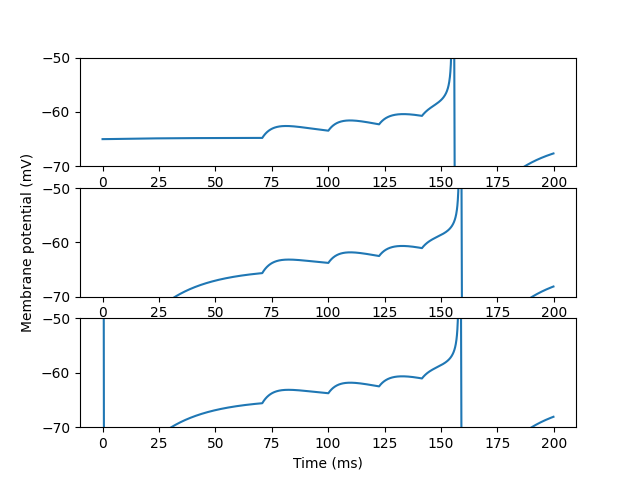
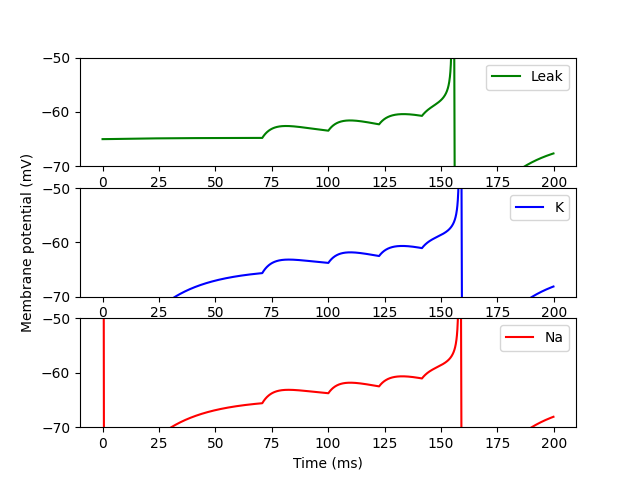
added legend for plot

diff --git a/week1_neuron_models.py b/week1_neuron_models.py
@@ -88,7 +88,7 @@ net1.run(duration)
 #store(net1)
 #stop()
 
-axis[0].plot(monitor_El.t/ms, monitor_El.v[0]/mV)
+axis[0].plot(monitor_El.t/ms, monitor_El.v[0]/mV, "-g", label='Leak')
 
 del(monitor_El)
 del(group)
@@ -109,7 +109,7 @@ net2.add(group)
 net2.run(duration)
 
 
-axis[1].plot(monitor_Ek.t/ms, monitor_Ek.v[0]/mV)
+axis[1].plot(monitor_Ek.t/ms, monitor_Ek.v[0]/mV, "-b", label='K')
 
 del(monitor_Ek)
 del(group)
@@ -130,70 +130,33 @@ net3.add(group)
 net3.run(duration)
 
 
-axis[2].plot(monitor_ENa.t/ms, monitor_ENa.v[0]/mV)
+axis[2].plot(monitor_ENa.t/ms, monitor_ENa.v[0]/mV, "-r", label='Na')
 
 del(monitor_ENa)
 del(group)
-
-
-
-
 
 axis[0].set_ylim([-70,-50])
 axis[1].set_ylim([-70,-50])
 axis[2].set_ylim([-70,-50])
 
-#axis[0].set_ylabel('Membrane potential (mV)')
+
 axis[1].set_ylabel('Membrane potential (mV)')
-#axis[2].set_ylabel('Membrane potential (mV)')
+
 
 axis[0].set_xlabel('Time (ms)')
 axis[1].set_xlabel('Time (ms)')
 axis[2].set_xlabel('Time (ms)')
 
 
+axis[0].legend(loc='upper right')
+axis[1].legend(loc='upper right')
+axis[2].legend(loc='upper right')
 
-
+#axis[1].text(0.95, 0.95, 'K')
+#axis[2].text(0.95, 0.95,'Na')
+print(gi)
+plt.savefig("Hodgkin-Huxley_channels.png")
 plt.show()
-
-#run(duration)
-#axis[0].plot(monitor_El.t/ms, monitor_El.v[0]/mV)
-#axis[0].ylim(min(monitor_El.v[0]/mV), max(monitor_El.v[0]/mV))
-#axis[0].ylabel('Membrane potential (mV)')
-#axis[0].xlabel('Time (ms)')
-#tight_layout()
-#print(collect())
-
-
-#Potassium channel
-#group.v = EK
-# Little trick to get a sequence of input spikes that get faster and faster
-#inp_sp2 = NeuronGroup(1, 'dv/dt=int(t<150*ms)*t/(50*ms)**2:1', threshold ='v>1', reset='v=0', method='euler')
-#S2 = Synapses(inp_sp2, group, on_pre='ge += we')
-#S2.connect(p=1)
-#monitor_Ek = StateMonitor(group, 'v', record=True)
-#run(duration)
-#axis[1].plot(monitor_Ek.t/ms, monitor_Ek.v[0]/mV)
-#axis[0].ylim(min(monitor_El.v[0]/mV), max(monitor_El.v[0]/mV))
-#axis[0].ylabel('Membrane potential (mV)')
-#axis[0].xlabel('Time (ms)')
-#tight_layout()
-
-
-#Sodium channel
-#group.v = ENa
-# Little trick to get a sequence of input spikes that get faster and faster
-#inp_sp3 = NeuronGroup(1, 'dv/dt=int(t<150*ms)*t/(50*ms)**2:1', threshold ='v>1', reset='v=0', method='euler')
-#S3 = Synapses(inp_sp3, group, on_pre='ge += we')
-#S3.connect(p=1)
-#monitor_ENa = StateMonitor(group, 'v', record=True)
-#run(duration)
-#axis[1].plot(monitor_ENa.t/ms, monitor_ENa.v[0]/mV)
-#axis[0].ylim(min(monitor_El.v[0]/mV), max(monitor_El.v[0]/mV))
-#axis[0].ylabel('Membrane potential (mV)')
-#axis[0].xlabel('Time (ms)')
-#tight_layout()
-
 
 
 
